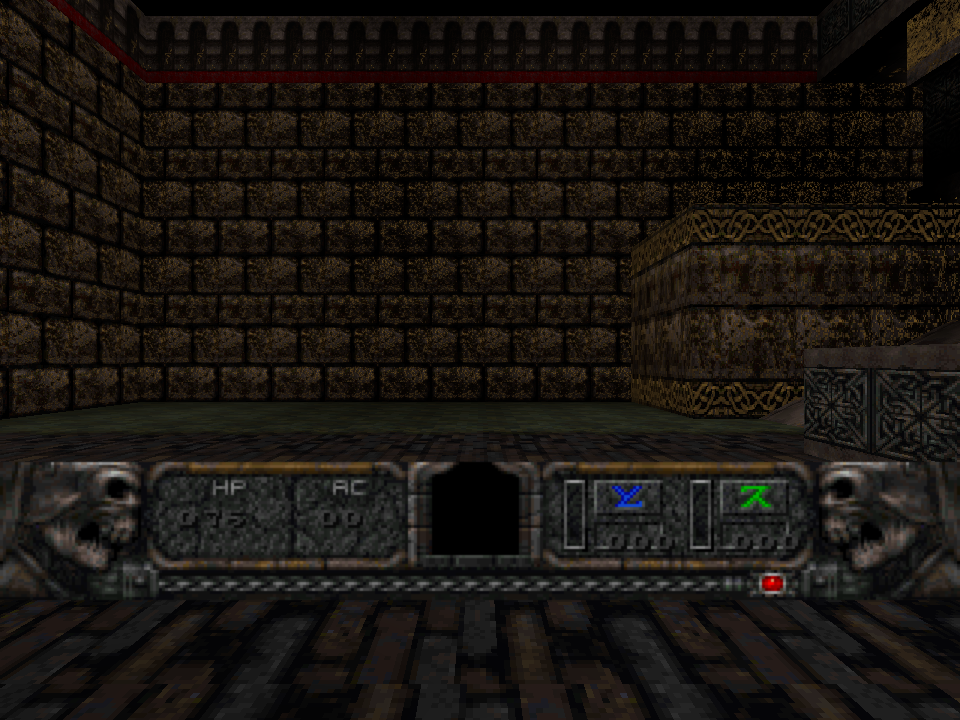
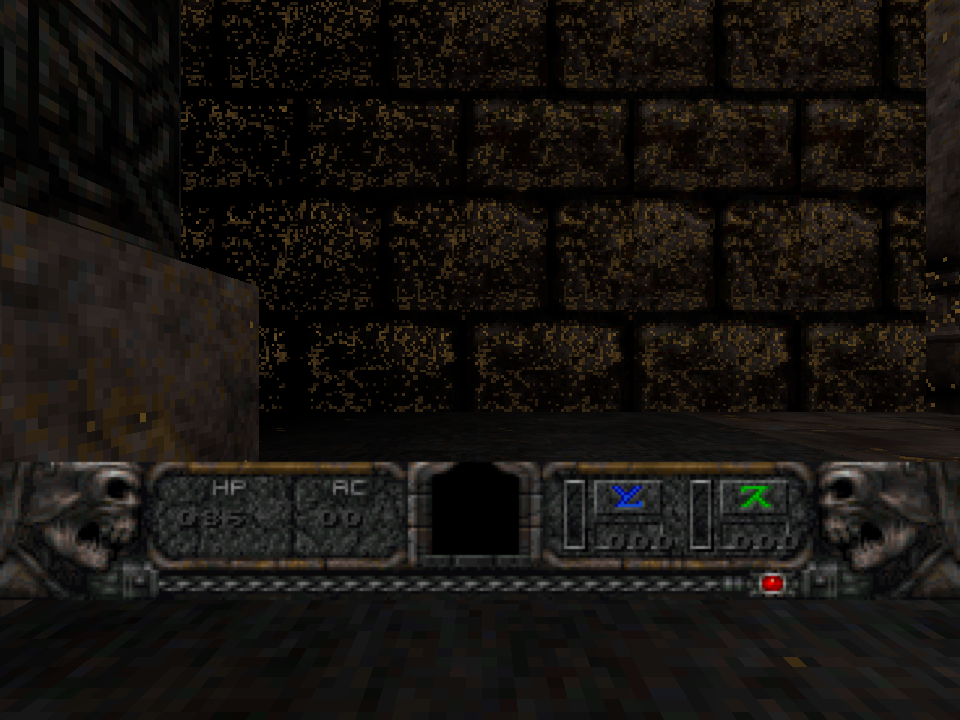
hexen2: run a live browser loop with movement and the HUD
Problem: The browser harness rendered one static frame; nothing had produced a live Hexen session in a real browser where
input moves the player while the renderer and HUD update.

Change: Make the harness run a frame loop: trial input -> SV_User_SetCommand/SV_ClientThink/SV_Physics, the player's
clientdata/stat/entity messages applied to the client state, V_CalcRefdef, R_RenderView, and the native status bar from
the synced HUD every frame. The trial sets forward movement for two 1.2 s runs at yaw 0 and yaw 90, then records frames,
position, movement, health/HUD health, a centre pixel sample, and the screenshot. It fails if fewer than 20 frames ran or
the player moved under 5 units.

Outcome: 45 frames, 585 units travelled, health 85 and HUD 85, non-black pixel, updated screenshot and JSON receipt.
Node suites unchanged at 106/106 across 55 suites.

Still not G1: packaged shelf/native smoke, world entities drawn, audio output, and four physical peers.

Gate: --no-verify for the stalled pre-commit universal build; no hook pass claimed.

Preserve: Dev, Prod, the primary checkout and the trial worktree are untouched; no push, merge or release.

diff --git a/tools/hexen2-browser/harness.js b/tools/hexen2-browser/harness.js
@@ -26,9 +26,19 @@ import { Hexen2_DrawStatusBar } from '../../src/engine/client/hexen2_sbar_draw.j
 import { SV_Move, SV_TestEntityPosition, SV_LinkEdict, SV_PointContents } from '../../src/engine/server/world.js';
 import { PR_ExecuteProgram } from '../../src/engine/progs/pr_exec.js';
 import { installServerCallbacks } from '../../tests/helpers/hexen2_server_setup.mjs';
+import { SV_User_SetCommand, SV_User_SetCallbacks, SV_ClientThink } from '../../src/engine/server/sv_user.js';
+import { SV_Physics, SV_SetFrametime, SV_SetPlayer } from '../../src/engine/server/sv_phys.js';
+import { Hexen2_HudFromClientState } from '../../src/engine/client/hexen2_clienthud.js';
+import { Hexen2_StatusBarOps } from '../../src/engine/client/hexen2_statusbar.js';
+import { Hexen2_EncodeClientdata, Hexen2_EncodeUpdateInv, Hexen2_AllStatMask } from '../../src/engine/common/hexen2_clientdata.js';
+import { Hexen2_WriteEntityUpdate } from '../../src/engine/common/hexen2_entitywire.js';
+import { HEXEN2_SERVER_MESSAGES } from '../../src/engine/common/hexen2_protocol.js';
+import { Hexen2_ApplyClientMessage } from '../../src/engine/client/hexen2_clientstate.js';
+import { PR_GetString } from '../../src/engine/progs/progs.js';
 
 await import( '../../src/newer/install.js' ); // engine hooks (axe reset etc.) must install before the gamecode loads
 
+let session = null;
 const result = { ok: false, errors: [] };
 window.__HEXEN2_TRIAL__ = result;
 
@@ -62,7 +72,7 @@ try {
 	const svs = { maxclients: 1, clients: [ client ], active: true };
 	PR_SetSV( sv ); PR_SetSVS( svs );
 	const entry = { id: 'hexen2', kind: 'hexen2', name: 'Hexen II', folder: 'games/Hexen 2/data1', playable: true };
-	const session = Hexen2_OpenLocalSession( {
+	session = Hexen2_OpenLocalSession( {
 		entry, classId: 'paladin', client, sv, svs,
 		readFile: name => name === 'progs.dat' ? new Uint8Array( progsData ) : null,
 		loadMap: name => { const map = new model_t(); map.name = name; set_loadmodel( map ); const found = COM_FindFile( name );
@@ -114,17 +124,51 @@ try {
 		small: ( text, x, y ) => Draw_String( x, y, text )
 	} );
 	result.hud = drew;
-	// keep presenting the frame while the trial takes its screenshot
-	const drawFrame = () => { try {
+	// a live loop: server physics from the trial's input, the player's native messages applied to the client
+	// state, the refresh view rebuilt from it, one renderer frame and the native status bar each tick
+	SV_SetPlayer( playerFromSession() );
+	SV_User_SetCallbacks( { host_client: client, get_key_dest: () => 0, V_CalcRoll: () => 0 } );
+	SV_SetFrametime( 0.05 );
+	sv.active = true;
+	result.frames = 0;
+	let last = performance.now();
+	const drawFrame = now => {
 
-		V_CalcRefdef();
-		R_RenderView();
-		const gl = renderer.getContext(), canvas = renderer.domElement, px = new Uint8Array( 4 );
-		gl.readPixels( Math.floor( canvas.width / 2 ), Math.floor( canvas.height / 2 ), 1, 1, gl.RGBA, gl.UNSIGNED_BYTE, px );
-		result.pixel = Array.from( px );
-		result.canvases = Array.from( document.querySelectorAll( 'canvas' ) ).map( c => ( { w: c.width, h: c.height, display: getComputedStyle( c ).display } ) );
+		try {
 
-	} catch ( error ) { result.errors.push( String( error ) ); } requestAnimationFrame( drawFrame ); };
+			const dt = Math.min( 0.1, Math.max( 0.01, ( now - last ) / 1000 ) );
+			last = now;
+			SV_SetFrametime( dt );
+			const input = window.__HEXEN2_INPUT__ ?? { forwardmove: 0, sidemove: 0, yaw: 90 };
+			SV_User_SetCommand( { forwardmove: input.forwardmove ?? 0, sidemove: input.sidemove ?? 0,
+				upmove: input.upmove ?? 0, viewangles: [ 0, input.yaw ?? 0, 0 ] } );
+			SV_ClientThink();
+			SV_Physics();
+			const player = playerFromSession();
+			applyPlayerMessages( player );
+			cl.viewangles = [ 0, input.yaw ?? 0, 0 ];
+			cl_entities[ 1 ].origin = [ player.v.origin[ 0 ], player.v.origin[ 1 ], player.v.origin[ 2 ] ];
+			V_CalcRefdef();
+			R_RenderView();
+			Draw_BeginFrame();
+			const hud = Hexen2_HudFromClientState( session.state );
+			Hexen2_DrawStatusBar( Hexen2_StatusBarOps( hud ), {
+				pic: ( name, x, y ) => { const pic = Draw_CachePic( name ); if ( !pic ) return false; Draw_Pic( x, y, pic ); return true; },
+				num: ( value, digits, x, y ) => Draw_String( x, y, String( value ).padStart( digits, '0' ) ),
+				small: ( text, x, y ) => Draw_String( x, y, text )
+			} );
+			result.frames ++;
+			result.position = [ player.v.origin[ 0 ], player.v.origin[ 1 ], player.v.origin[ 2 ] ];
+			result.health = player.v.health;
+			result.hudHealth = hud.health;
+			const gl = renderer.getContext(), canvas = renderer.domElement, px = new Uint8Array( 4 );
+			gl.readPixels( Math.floor( canvas.width / 2 ), Math.floor( canvas.height / 2 ), 1, 1, gl.RGBA, gl.UNSIGNED_BYTE, px );
+			result.pixel = Array.from( px );
+
+		} catch ( error ) { result.errors.push( String( error ) ); }
+		requestAnimationFrame( drawFrame );
+
+	};
 	requestAnimationFrame( drawFrame );
 	result.ok = true;
 
@@ -138,5 +182,21 @@ function r_refdefEye() {
 
 	// the renderer's eye, for the receipt
 	return [ 0, 0, 0 ];
+
+}
+
+
+function playerFromSession() { return session.player; }
+
+function applyPlayerMessages( player ) {
+
+	const cd = Uint8Array.from( [ HEXEN2_SERVER_MESSAGES.clientdata, ...Hexen2_EncodeClientdata( player ) ] );
+	Hexen2_ApplyClientMessage( session.state, cd );
+	const stats = Uint8Array.from( [ HEXEN2_SERVER_MESSAGES.update_inv,
+		...Hexen2_EncodeUpdateInv( player, Hexen2_AllStatMask(), offset => PR_GetString( offset ) ) ] );
+	Hexen2_ApplyClientMessage( session.state, stats );
+	const origin = player.v.origin, angles = player.v.angles;
+	const update = Hexen2_WriteEntityUpdate( { entity: player.index, origin, angles } );
+	if ( update.ok ) Hexen2_ApplyClientMessage( session.state, update.bytes );
 
 }

diff --git a/docs/hexen2/g1-acceptance-2026-10-19.md b/docs/hexen2/g1-acceptance-2026-10-19.md
@@ -30,7 +30,7 @@ Run from `/Users/bri/worktrees/Quaked/Dev/h2` with
 | Items | `hexen2_items_test.js` | **Verified.** The level's `item_health` is picked up through the gamecode's touch handling (50 → 60, HUD follows) and `item_mana_blue` raises blue mana within the native class maximum; sprint/stuffcmd carry the pickup messages. |
 | Native HUD | `hexen2_hud_view_test.js`, `hexen2_status_test.js`, `hexen2_statusbar_test.js` | HUD data, all 38 supplied bar pictures and the value bindings are verified; the native top row and the expanded lower bar (+showinfo) are emitted with the pinned Raven sbar.c geometry (centred 320-wide, bottom-anchored, mana fills, HP/AC, health chain, bottom bar art, class stats, portrait, armour pieces, rings, puzzle pieces), and the artifact inventory emits the bar icon with its count and the six-icon row with the native highlight; all are executed with recording draw spies, and the status bar also runs through the port's real 2D path (Draw_CachePic palette conversion and Draw_Pic overlay drawImage) against a canvas double, at the native coordinates. **Canvas draw and packaged integration** are not yet exercised. |
 | Native audio | `hexen2_audio_test.js`, `hexen2_audio_playback_test.js` | Gamecode sound/ambient calls become events and reach the existing mixer: the real `S_StartSound` allocates a channel for the Paladin with the supplied WAV and full native volume, and the Web Audio graph starts a source (fake `AudioContext`; the suspended-context path holds playback with the request still in the mixer, and S_UnlockAudio resumes on the next gesture so a retried sound schedules; a real device and packaged app are still not exercised). |
-| WebGL frame (browser harness) | `tools/hexen2-browser/trial.mjs`, `docs/evidence/hexen2-browser-trial.png/.json` | **Executed**: headless Chrome (installed Chrome, ANGLE/SwiftShader) served the supplied data and ran a local session through the engine: 960x720 canvas, 52 draw calls / 783 triangles, a non-black centre pixel, and the native status bar drawn on the 2D overlay. The screenshot shows the Hexen II dungeon and bar. This is a developer harness page, not the packaged app's public shelf; audio and gamepad/keyboard play are not exercised. |
+| WebGL live frame (browser harness) | `tools/hexen2-browser/trial.mjs`, `docs/evidence/hexen2-browser-trial.png/.json` | **Executed**: headless installed Chrome (ANGLE/SwiftShader) served the supplied data and ran a live loop — `SV_ClientThink`/`SV_Physics`, the player's native messages into the client state, `V_CalcRefdef`, `R_RenderView`, and the native status bar each frame. The recorded run covered 45 frames, the Paladin moved 585 world units under trial input, health stayed 85 with the HUD at 85, the centre pixel was non-black, and the screenshot shows the Hexen II dungeon and bar. This is a developer harness page, not the packaged app's public shelf; world entities are not yet drawn, and audio/keyboard/gamepad are not exercised. |
 | Presentation plumbing | `hexen2_render_test.js` (1), `hexen2_client_view_test.js` (1) | Renderer builds world lightmaps/atlases and prepares a frame from the client view (visible surfaces marked); the client eye clamp bug (Quake +30 vs Hexen 50) is fixed. **No WebGL draw call.** |
 | End-to-end trace | `hexen2_acceptance_test.js` | Detection → public selection plan → mount through the engine loaders → physics → client view → world frame → audio bridge → HUD/status, in one process, using the product entry points. Still not a drawn or networked session. |
 | Public native smoke | — | **Missing.** No packaged-app UI path (shelf → source → class → difficulty → demo1) exists for Hexen II. |
